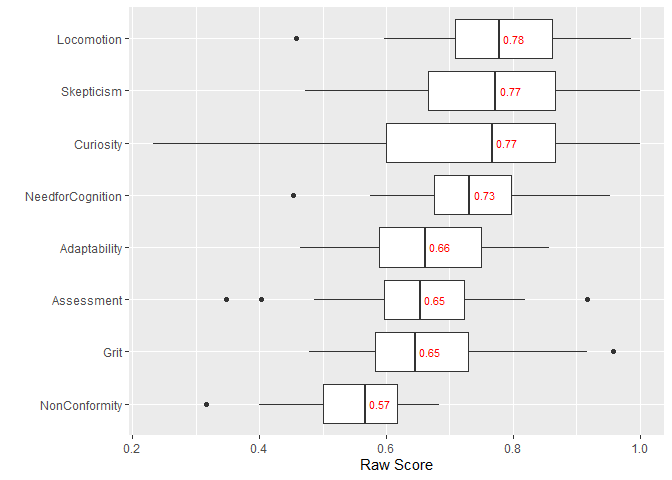
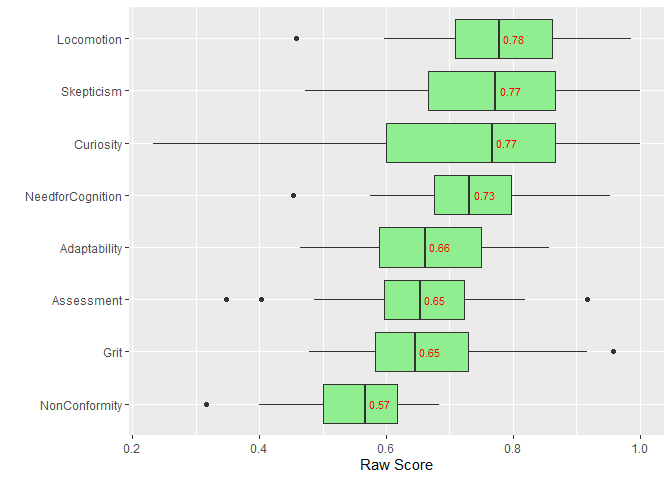
end of day

Changed region(s): [[0.4688, 0.0312, 0.8438, 0.9062]]

diff --git a/CATTCon_Personality_Dashboard.md b/CATTCon_Personality_Dashboard.md
@@ -1,7 +1,7 @@
 CATTCon Results
 ================
 
-### Demographic Information (Education, Certificaitons, Hobbies)
+### Demographic Information (Education, Certifications, Hobbies)
 
 ##### Education: Highest degree achieved by percentage of cybersecuirty professionals.
 
@@ -45,7 +45,7 @@ CATTCon Results
 
 ### Personality Trait Raw Scores (8 Categories)
 
-##### Median values are in **red text**.
+##### Cybersecurity professionals are displayed in the \*\*green\* boxplots.
 
   - *Adaptability*: ability to adjust to new conditions.
   - *Assessment*: focus on self-evaluation and “doing the right thing.”
@@ -101,7 +101,7 @@ CATTCon Results
 
 ![](CATTCon_Personality_Dashboard_files/figure-gfm/unnamed-chunk-8-1.png)<!-- -->
 
-### Self-Efficacy reported by technical level (High, Medium, Low)
+### Self-efficacy reported by cybersecurity technical level (High, Medium, Low)
 
   - *Self-Efficacy*: belief in one’s own ability to deal with a
     prospective situation in cybersecurity roles.
